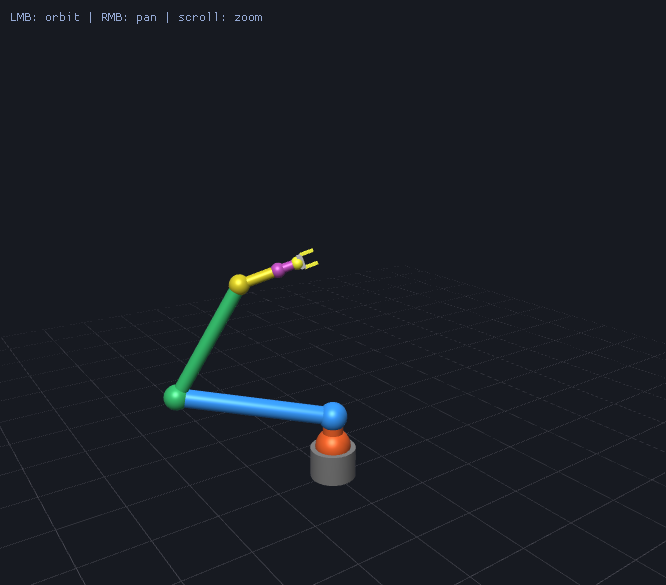
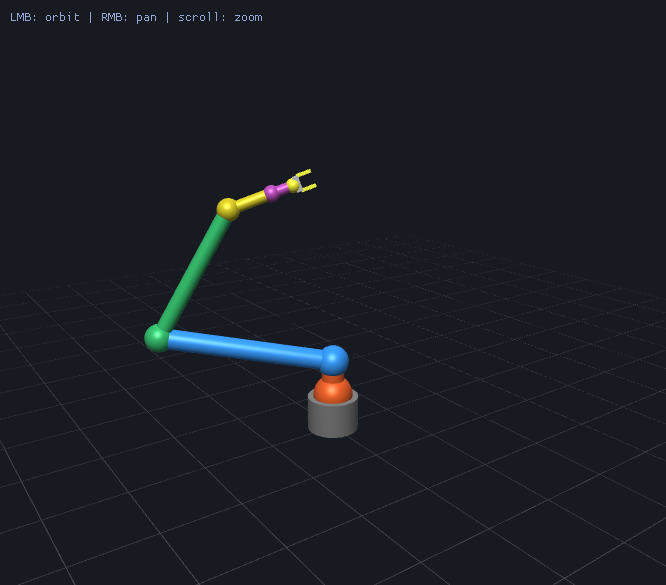
feat: Add --target and reframe the screenshots
The camera always looked at a fixed point, so a low or a folded pose
sat in the bottom of the frame with empty sky above it. --target X,Y,Z
moves the look-at point, and every image is reframed around it: the
hero shot now fills its panel, the close-up is genuinely close, and
the reaching pose lost its empty upper half.

--view and --target share one parser for a comma-separated triple,
which the two of them were otherwise about to duplicate.

diff --git a/src/main.cpp b/src/main.cpp
@@ -266,7 +266,9 @@ typedef struct {
     float       yaw_deg;
     float       pitch_deg;
     float       distance;
-    bool        has_camera;     /**< A camera override was given. */
+    float       target[3];      /**< Point the camera looks at, in world units. */
+    bool        has_camera;     /**< A camera placement override was given. */
+    bool        has_target;     /**< A look-at override was given. */
     bool        crop_to_view;   /**< Capture the 3D view alone, without panels. */
 } rbt_options_t;
 
@@ -281,6 +283,7 @@ static void s_print_usage(const char *program)
             "  --shot FILE      render one frame to a PNG and exit\n"
             "  --size WxH       window size (default 1280x800)\n"
             "  --view YAW,PITCH,DISTANCE   camera placement, degrees and units\n"
+            "  --target X,Y,Z   point the camera looks at (default 0,1.5,0)\n"
             "  --pose A,B,C,... joint angles in degrees, in panel order\n"
             "  --bare           capture the 3D view only, without the panels\n"
             "  --warmup N       frames to settle before capturing (default %d)\n"
@@ -308,25 +311,22 @@ static bool s_parse_size(const char *text, int *width, int *height)
     return true;
 }
 
-/** @brief Parse "YAW,PITCH,DISTANCE". */
-static bool s_parse_view(const char *text, rbt_options_t *options)
+/** @brief Parse three comma-separated floats, as both --view and --target take. */
+static bool s_parse_triple(const char *text, float out[3])
 {
-    char *end = NULL;
-    options->yaw_deg = strtof(text, &end);
-    if (end == text || *end != ',') {
-        return false;
+    const char *cursor = text;
+    for (int i = 0; i < 3; i++) {
+        char *end = NULL;
+        out[i] = strtof(cursor, &end);
+        if (end == cursor) {
+            return false;
+        }
+        const char expected = (i < 2) ? ',' : '\0';
+        if (*end != expected) {
+            return false;
+        }
+        cursor = end + 1;
     }
-    const char *rest = end + 1;
-    options->pitch_deg = strtof(rest, &end);
-    if (end == rest || *end != ',') {
-        return false;
-    }
-    rest = end + 1;
-    options->distance = strtof(rest, &end);
-    if (end == rest || *end != '\0') {
-        return false;
-    }
-    options->has_camera = true;
     return true;
 }
 
@@ -363,10 +363,21 @@ static bool s_parse_options(rbt_options_t *options, int argc, char **argv, bool 
                 return false;
             }
         } else if (strcmp(arg, "--view") == 0 && has_value) {
-            if (!s_parse_view(argv[++i], options)) {
+            float view[3];
+            if (!s_parse_triple(argv[++i], view)) {
                 fprintf(stderr, "bad --view, expected YAW,PITCH,DISTANCE\n");
                 return false;
             }
+            options->yaw_deg    = view[0];
+            options->pitch_deg  = view[1];
+            options->distance   = view[2];
+            options->has_camera = true;
+        } else if (strcmp(arg, "--target") == 0 && has_value) {
+            if (!s_parse_triple(argv[++i], options->target)) {
+                fprintf(stderr, "bad --target, expected X,Y,Z\n");
+                return false;
+            }
+            options->has_target = true;
         } else {
             fprintf(stderr, "unknown or incomplete option: %s\n\n", arg);
             s_print_usage(argv[0]);
@@ -544,7 +555,8 @@ static void s_draw_control_panel(void)
 
 int main(int argc, char **argv)
 {
-    rbt_options_t options = {NULL, NULL, 1280, 800, s_default_warmup, 0.0f, 0.0f, 0.0f, false, false};
+    rbt_options_t options = {NULL, NULL, 1280, 800, s_default_warmup,
+                             0.0f, 0.0f, 0.0f, {0.0f, 0.0f, 0.0f}, false, false, false};
     bool help_requested = false;
     if (!s_parse_options(&options, argc, argv, &help_requested)) {
         return 1;
@@ -617,6 +629,9 @@ int main(int argc, char **argv)
         s_camera.yaw_deg   = options.yaw_deg;
         s_camera.pitch_deg = options.pitch_deg;
         s_camera.distance  = options.distance;
+    }
+    if (options.has_target) {
+        s_camera.target = Vector3f(options.target[0], options.target[1], options.target[2]);
     }
 
     rbt_robot_build(&s_robot);

diff --git a/README.md b/README.md
@@ -103,8 +103,10 @@ tools/make-screenshots.sh
 Each one is a single `--shot` run with a camera and a pose:
 
 ```bash
-./build/robot_viewer --shot out.png --size 1280x800 \
-                     --view 40,18,4.6 --pose 0,0,25,-70,-35,0,0
+./build/robot_viewer --shot out.png --size 1280x800 --view 40,18,4.3 \
+                     --target 0,1.7,0 --pose 0,0,25,-70,-35,0,0
 ```
 
-`--bare` captures the 3D view without the panels; `--help` lists the rest.
+`--view` is yaw, pitch and distance; `--target` is the point it looks at;
+`--pose` is one angle per joint in panel order. `--bare` captures the 3D view
+without the panels, and `--help` lists the rest.
